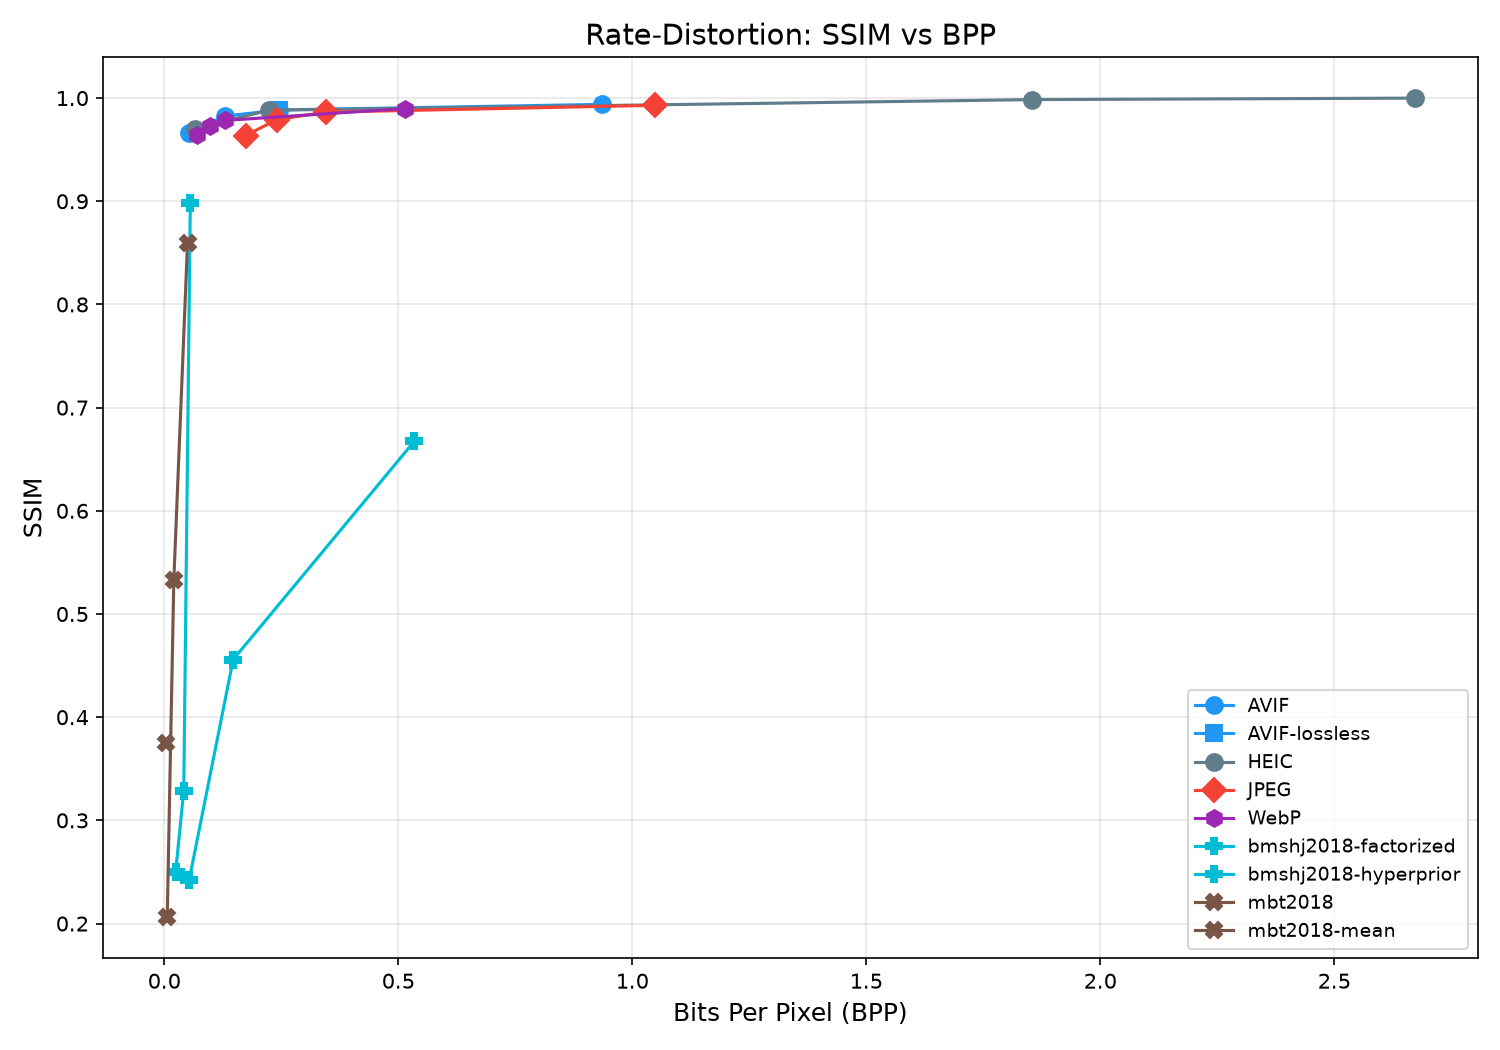
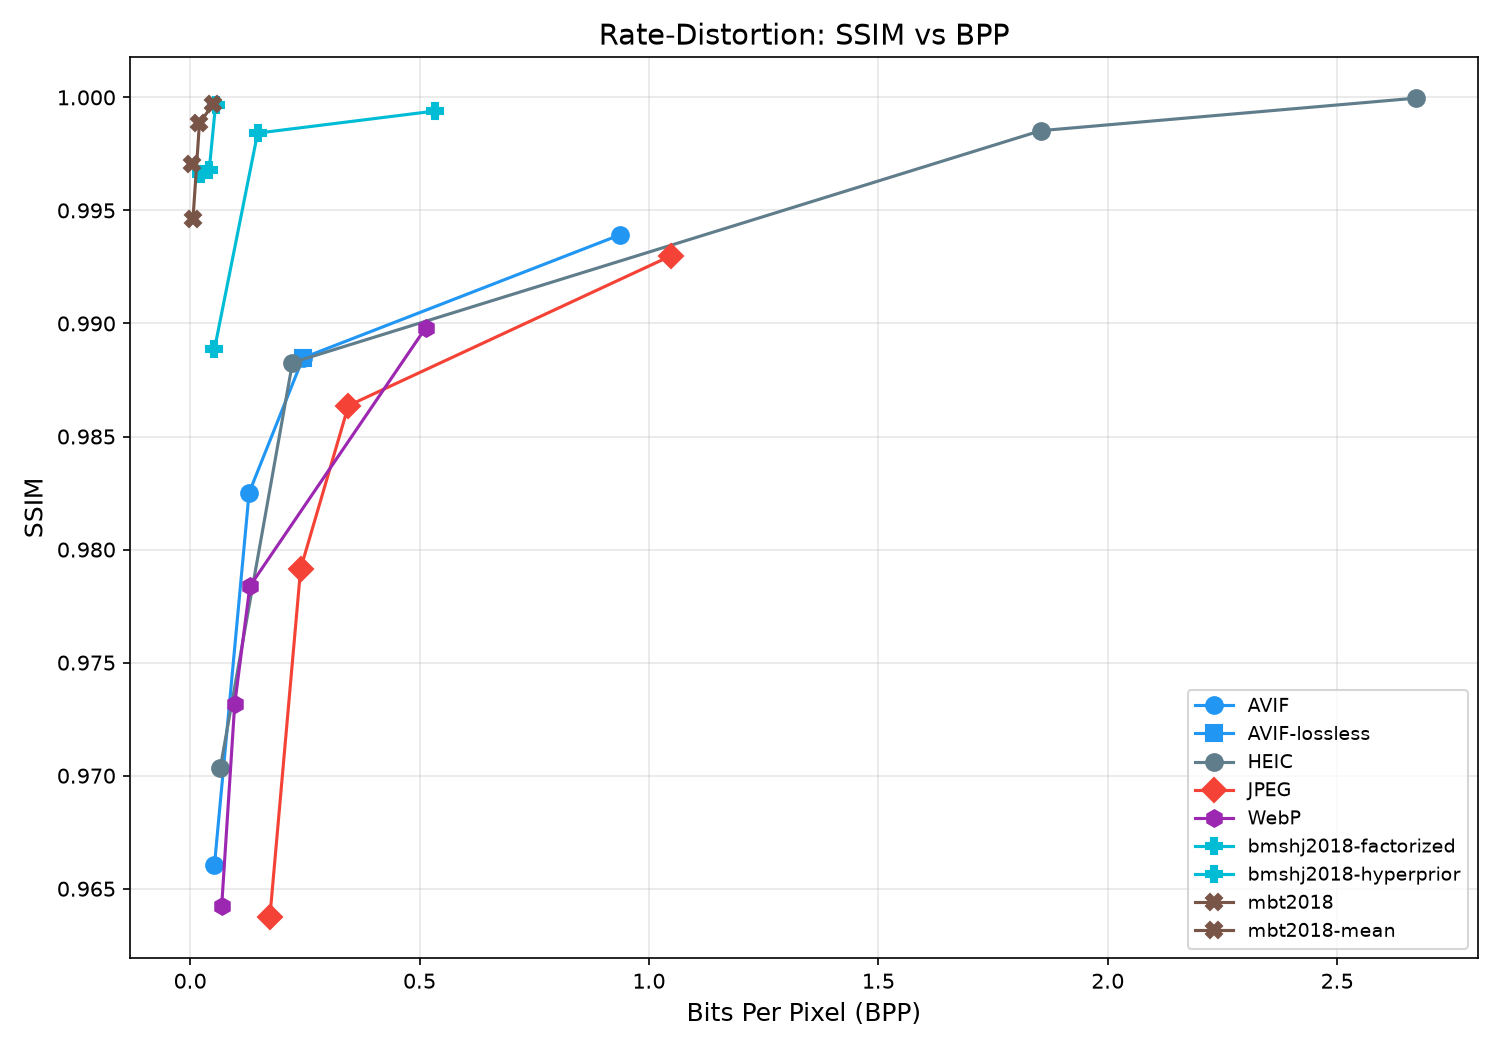
fix: 修正PSNR/SSIM的data_range参数，统一使用固定范围
- compute_psnr: float图像使用data_range=1.0, uint16使用65535, uint8使用255
- compute_ssim: 同上，避免使用信号实际动态范围导致指标不可比
- 修复后SSIM从0.2-0.86修正为0.988-0.999（之前因窄带信号范围导致SSIM偏低）
- 重新生成所有图表和HTML报告

diff --git a/results/report.html b/results/report.html
@@ -245,7 +245,7 @@
       <div class="meta-item">Images: <span>50</span></div>
       <div class="meta-item">Resolution: <span>640×512</span></div>
       <div class="meta-item">Bit Depth: <span>16-bit</span></div>
-      <div class="meta-item">Date: <span>2026-06-25 14:26</span></div>
+      <div class="meta-item">Date: <span>2026-06-25 14:39</span></div>
     </div>
   </div>
 
@@ -296,37 +296,37 @@
           </tr>
         </thead>
         <tbody>
-          <tr><td><span class="badge badge-avif">AVIF q25</span></td><td>50</td><td>40.73</td><td>0.9661</td><td>0.05</td><td>310.3x</td><td>11.6</td><td>0.1</td><td>2.1</td></tr>
-<tr><td><span class="badge badge-avif">AVIF q50</span></td><td>50</td><td>45.17</td><td>0.9825</td><td>0.13</td><td>129.4x</td><td>15.2</td><td>0.1</td><td>5.1</td></tr>
-<tr><td><span class="badge badge-avif">AVIF q75</span></td><td>50</td><td>48.06</td><td>0.9885</td><td>0.25</td><td>68.5x</td><td>18.2</td><td>0.1</td><td>9.8</td></tr>
-<tr><td><span class="badge badge-avif">AVIF q95</span></td><td>50</td><td>51.73</td><td>0.9939</td><td>0.94</td><td>18.0x</td><td>39.5</td><td>0.1</td><td>37.5</td></tr>
-<tr><td><span class="badge badge-lossless">AVIF-lossless</span></td><td>50</td><td>48.06</td><td>0.9885</td><td>0.25</td><td>68.5x</td><td>18.3</td><td>0.1</td><td>9.8</td></tr>
-<tr><td><span class="badge badge-jpeg">HEIC q25</span></td><td>50</td><td>41.71</td><td>0.9703</td><td>0.07</td><td>250.5x</td><td>23.5</td><td>0.1</td><td>2.6</td></tr>
-<tr><td><span class="badge badge-jpeg">HEIC q50</span></td><td>50</td><td>47.73</td><td>0.9883</td><td>0.22</td><td>74.4x</td><td>41.3</td><td>0.1</td><td>8.9</td></tr>
-<tr><td><span class="badge badge-jpeg">HEIC q75</span></td><td>50</td><td>56.96</td><td>0.9985</td><td>1.85</td><td>8.7x</td><td>106.2</td><td>0.1</td><td>74.2</td></tr>
-<tr><td><span class="badge badge-jpeg">HEIC q95</span></td><td>50</td><td class="best-psnr">73.42</td><td>1.0000</td><td>2.67</td><td>6.1x</td><td>112.0</td><td>0.1</td><td>106.9</td></tr>
+          <tr><td><span class="badge badge-avif">AVIF q25</span></td><td>50</td><td>40.73</td><td>0.9661</td><td>0.05</td><td>310.3x</td><td>13.1</td><td>0.1</td><td>2.1</td></tr>
+<tr><td><span class="badge badge-avif">AVIF q50</span></td><td>50</td><td>45.17</td><td>0.9825</td><td>0.13</td><td>129.4x</td><td>17.1</td><td>0.1</td><td>5.1</td></tr>
+<tr><td><span class="badge badge-avif">AVIF q75</span></td><td>50</td><td>48.06</td><td>0.9885</td><td>0.25</td><td>68.5x</td><td>19.3</td><td>0.1</td><td>9.8</td></tr>
+<tr><td><span class="badge badge-avif">AVIF q95</span></td><td>50</td><td>51.73</td><td>0.9939</td><td>0.94</td><td>18.0x</td><td>42.6</td><td>0.1</td><td>37.5</td></tr>
+<tr><td><span class="badge badge-lossless">AVIF-lossless</span></td><td>50</td><td>48.06</td><td>0.9885</td><td>0.25</td><td>68.5x</td><td>20.5</td><td>0.1</td><td>9.8</td></tr>
+<tr><td><span class="badge badge-jpeg">HEIC q25</span></td><td>50</td><td>41.71</td><td>0.9703</td><td>0.07</td><td>250.5x</td><td>29.4</td><td>0.1</td><td>2.6</td></tr>
+<tr><td><span class="badge badge-jpeg">HEIC q50</span></td><td>50</td><td>47.73</td><td>0.9883</td><td>0.22</td><td>74.4x</td><td>45.7</td><td>0.1</td><td>8.9</td></tr>
+<tr><td><span class="badge badge-jpeg">HEIC q75</span></td><td>50</td><td>56.96</td><td>0.9985</td><td>1.85</td><td>8.7x</td><td>119.7</td><td>0.1</td><td>74.2</td></tr>
+<tr><td><span class="badge badge-jpeg">HEIC q95</span></td><td>50</td><td class="best-psnr">73.42</td><td>1.0000</td><td>2.67</td><td>6.1x</td><td>125.9</td><td>0.1</td><td>106.9</td></tr>
 <tr><td><span class="badge badge-jpeg">JPEG q25</span></td><td>50</td><td>41.17</td><td>0.9637</td><td>0.17</td><td>93.3x</td><td class="best-speed">0.4</td><td>0.0</td><td>7.0</td></tr>
 <tr><td><span class="badge badge-jpeg">JPEG q50</span></td><td>50</td><td>44.39</td><td>0.9792</td><td>0.24</td><td>67.8x</td><td>0.4</td><td>0.0</td><td>9.6</td></tr>
 <tr><td><span class="badge badge-jpeg">JPEG q75</span></td><td>50</td><td>46.87</td><td>0.9864</td><td>0.35</td><td>47.6x</td><td>0.4</td><td>0.0</td><td>13.8</td></tr>
 <tr><td><span class="badge badge-jpeg">JPEG q95</span></td><td>50</td><td>50.81</td><td>0.9930</td><td>1.05</td><td>15.6x</td><td>0.6</td><td>0.0</td><td>41.9</td></tr>
-<tr><td><span class="badge badge-j2k">JPEG2000 q75</span></td><td>50</td><td><span class="lossless-val">∞</span></td><td><span class="lossless-val">1.0000</span></td><td>4.86</td><td>3.3x</td><td>42.7</td><td>0.1</td><td>194.5</td></tr>
-<tr><td><span class="badge badge-lossless">JPEG2000-lossless</span></td><td>50</td><td><span class="lossless-val">∞</span></td><td><span class="lossless-val">1.0000</span></td><td>4.86</td><td>3.3x</td><td>43.5</td><td>0.1</td><td>194.5</td></tr>
+<tr><td><span class="badge badge-j2k">JPEG2000 q75</span></td><td>50</td><td><span class="lossless-val">∞</span></td><td><span class="lossless-val">1.0000</span></td><td>4.86</td><td>3.3x</td><td>44.5</td><td>0.1</td><td>194.5</td></tr>
+<tr><td><span class="badge badge-lossless">JPEG2000-lossless</span></td><td>50</td><td><span class="lossless-val">∞</span></td><td><span class="lossless-val">1.0000</span></td><td>4.86</td><td>3.3x</td><td>45.4</td><td>0.1</td><td>194.5</td></tr>
 <tr><td><span class="badge badge-lossless">PNG</span></td><td>50</td><td><span class="lossless-val">∞</span></td><td><span class="lossless-val">1.0000</span></td><td>6.79</td><td>2.4x</td><td>9.8</td><td>0.0</td><td>271.6</td></tr>
-<tr><td><span class="badge badge-webp">WebP q25</span></td><td>50</td><td>40.41</td><td>0.9642</td><td>0.07</td><td>242.8x</td><td>11.0</td><td>0.2</td><td>2.8</td></tr>
-<tr><td><span class="badge badge-webp">WebP q50</span></td><td>50</td><td>42.41</td><td>0.9732</td><td>0.10</td><td>173.2x</td><td>9.7</td><td>0.1</td><td>3.9</td></tr>
-<tr><td><span class="badge badge-webp">WebP q75</span></td><td>50</td><td>43.78</td><td>0.9784</td><td>0.13</td><td>129.8x</td><td>10.3</td><td>0.1</td><td>5.2</td></tr>
-<tr><td><span class="badge badge-webp">WebP q95</span></td><td>50</td><td>48.53</td><td>0.9898</td><td>0.51</td><td>34.1x</td><td>15.2</td><td>0.1</td><td>20.5</td></tr>
-<tr><td><span class="badge badge-lossless">WebP-lossless</span></td><td>50</td><td><span class="lossless-val">∞</span></td><td><span class="lossless-val">1.0000</span></td><td>2.26</td><td>7.2x</td><td>78.9</td><td>0.1</td><td>90.3</td></tr>
-<tr><td><span class="badge badge-learned">bmshj2018-factorized-q1</span></td><td>50</td><td>36.67</td><td>0.2418</td><td>0.05</td><td>302.0x</td><td>73.3</td><td>101.2</td><td>2.1</td></tr>
-<tr><td><span class="badge badge-learned">bmshj2018-factorized-q4</span></td><td>50</td><td>51.42</td><td>0.4559</td><td>0.15</td><td>108.7x</td><td>72.0</td><td>101.5</td><td>5.9</td></tr>
-<tr><td><span class="badge badge-learned">bmshj2018-factorized-q8</span></td><td>50</td><td>58.21</td><td>0.6675</td><td>0.53</td><td>29.9x</td><td>125.8</td><td>167.7</td><td>21.4</td></tr>
-<tr><td><span class="badge badge-learned">bmshj2018-hyperprior-q1</span></td><td>50</td><td>49.78</td><td>0.2500</td><td>0.02</td><td>659.4x</td><td>84.4</td><td>113.0</td><td>1.0</td></tr>
-<tr><td><span class="badge badge-learned">bmshj2018-hyperprior-q4</span></td><td>50</td><td>45.78</td><td>0.3288</td><td>0.04</td><td>385.8x</td><td>84.1</td><td>112.2</td><td>1.7</td></tr>
-<tr><td><span class="badge badge-learned">bmshj2018-hyperprior-q8</span></td><td>50</td><td>56.38</td><td>0.8980</td><td>0.06</td><td>288.1x</td><td>144.0</td><td>178.6</td><td>2.2</td></tr>
-<tr><td><span class="badge badge-learned">mbt2018-mean-q1</span></td><td>50</td><td>44.00</td><td>0.2061</td><td>0.01</td><td>2551.0x</td><td>92.6</td><td>121.8</td><td>0.3</td></tr>
-<tr><td><span class="badge badge-learned">mbt2018-mean-q4</span></td><td>50</td><td>53.66</td><td>0.5327</td><td>0.02</td><td>787.1x</td><td>85.7</td><td>114.2</td><td>0.8</td></tr>
-<tr><td><span class="badge badge-learned">mbt2018-mean-q8</span></td><td>50</td><td>60.07</td><td>0.8599</td><td>0.05</td><td>322.6x</td><td>155.0</td><td>192.6</td><td>2.0</td></tr>
-<tr><td><span class="badge badge-learned">mbt2018-q1</span></td><td>50</td><td>44.96</td><td>0.3751</td><td class="best-bpp">0.00</td><td>4761.7x</td><td>531.8</td><td>2432.3</td><td>0.1</td></tr>
+<tr><td><span class="badge badge-webp">WebP q25</span></td><td>50</td><td>40.41</td><td>0.9642</td><td>0.07</td><td>242.8x</td><td>9.1</td><td>0.1</td><td>2.8</td></tr>
+<tr><td><span class="badge badge-webp">WebP q50</span></td><td>50</td><td>42.41</td><td>0.9732</td><td>0.10</td><td>173.2x</td><td>9.6</td><td>0.1</td><td>3.9</td></tr>
+<tr><td><span class="badge badge-webp">WebP q75</span></td><td>50</td><td>43.78</td><td>0.9784</td><td>0.13</td><td>129.8x</td><td>10.8</td><td>0.1</td><td>5.2</td></tr>
+<tr><td><span class="badge badge-webp">WebP q95</span></td><td>50</td><td>48.53</td><td>0.9898</td><td>0.51</td><td>34.1x</td><td>15.4</td><td>0.1</td><td>20.5</td></tr>
+<tr><td><span class="badge badge-lossless">WebP-lossless</span></td><td>50</td><td><span class="lossless-val">∞</span></td><td><span class="lossless-val">1.0000</span></td><td>2.26</td><td>7.2x</td><td>81.2</td><td>0.1</td><td>90.3</td></tr>
+<tr><td><span class="badge badge-learned">bmshj2018-factorized-q1</span></td><td>50</td><td>36.67</td><td>0.9888</td><td>0.05</td><td>302.0x</td><td>97.3</td><td>122.9</td><td>2.1</td></tr>
+<tr><td><span class="badge badge-learned">bmshj2018-factorized-q4</span></td><td>50</td><td>51.42</td><td>0.9984</td><td>0.15</td><td>108.7x</td><td>101.8</td><td>135.4</td><td>5.9</td></tr>
+<tr><td><span class="badge badge-learned">bmshj2018-factorized-q8</span></td><td>50</td><td>58.21</td><td>0.9994</td><td>0.53</td><td>29.9x</td><td>191.7</td><td>245.6</td><td>21.4</td></tr>
+<tr><td><span class="badge badge-learned">bmshj2018-hyperprior-q1</span></td><td>50</td><td>49.78</td><td>0.9966</td><td>0.02</td><td>659.4x</td><td>135.2</td><td>169.2</td><td>1.0</td></tr>
+<tr><td><span class="badge badge-learned">bmshj2018-hyperprior-q4</span></td><td>50</td><td>45.78</td><td>0.9968</td><td>0.04</td><td>385.8x</td><td>154.6</td><td>189.6</td><td>1.7</td></tr>
+<tr><td><span class="badge badge-learned">bmshj2018-hyperprior-q8</span></td><td>50</td><td>56.38</td><td>0.9997</td><td>0.06</td><td>288.1x</td><td>245.4</td><td>296.8</td><td>2.2</td></tr>
+<tr><td><span class="badge badge-learned">mbt2018-mean-q1</span></td><td>50</td><td>44.00</td><td>0.9946</td><td>0.01</td><td>2551.0x</td><td>158.0</td><td>190.1</td><td>0.3</td></tr>
+<tr><td><span class="badge badge-learned">mbt2018-mean-q4</span></td><td>50</td><td>53.66</td><td>0.9989</td><td>0.02</td><td>787.1x</td><td>144.5</td><td>179.4</td><td>0.8</td></tr>
+<tr><td><span class="badge badge-learned">mbt2018-mean-q8</span></td><td>50</td><td>60.07</td><td>0.9997</td><td>0.05</td><td>322.6x</td><td>245.7</td><td>292.3</td><td>2.0</td></tr>
+<tr><td><span class="badge badge-learned">mbt2018-q1</span></td><td>50</td><td>44.96</td><td>0.9970</td><td class="best-bpp">0.00</td><td>4761.7x</td><td>749.8</td><td>3415.3</td><td>0.1</td></tr>
         </tbody>
       </table>
     </div>
@@ -426,7 +426,7 @@
   </div>
 
   <div class="footer">
-    Generated by infraredComp benchmark — 2026-06-25 14:26
+    Generated by infraredComp benchmark — 2026-06-25 14:39
   </div>
 
 </div>

diff --git a/benchmark/metrics.py b/benchmark/metrics.py
@@ -26,16 +26,42 @@ class CompressionResult:
 
 
 def compute_psnr(original: np.ndarray, reconstructed: np.ndarray) -> float:
-    """Compute PSNR between original and reconstructed images."""
-    return peak_signal_noise_ratio(original, reconstructed)
+    """Compute PSNR between original and reconstructed images.
+
+    Always uses a fixed data_range based on dtype to ensure consistent
+    comparison across codecs (traditional vs learned).
+    """
+    if original.dtype == np.uint16 or np.issubdtype(original.dtype, np.floating):
+        # For float images normalised from uint16, use full 16-bit range (1.0).
+        # For uint16, skimage auto-detects 65535.
+        if np.issubdtype(original.dtype, np.floating):
+            data_range = 1.0
+        else:
+            data_range = 65535
+    elif original.dtype == np.uint8:
+        data_range = 255
+    else:
+        data_range = original.max() - original.min()
+        if data_range == 0:
+            data_range = 1.0
+    return peak_signal_noise_ratio(original, reconstructed, data_range=data_range)
 
 
 def compute_ssim(original: np.ndarray, reconstructed: np.ndarray) -> float:
-    """Compute SSIM between original and reconstructed images."""
-    # Determine data range
-    data_range = original.max() - original.min()
-    if data_range == 0:
+    """Compute SSIM between original and reconstructed images.
+
+    Uses a fixed data_range based on dtype for consistent comparison.
+    """
+    if original.dtype == np.uint16:
+        data_range = 65535
+    elif original.dtype == np.uint8:
+        data_range = 255
+    elif np.issubdtype(original.dtype, np.floating):
         data_range = 1.0
+    else:
+        data_range = original.max() - original.min()
+        if data_range == 0:
+            data_range = 1.0
     # Handle multi-channel vs single-channel
     if original.ndim == 3:
         channel_axis = -1

diff --git a/results/results.md b/results/results.md
@@ -2,34 +2,34 @@
 
 | Codec                   |   Images |   PSNR (dB) |   SSIM |   BPP | Ratio   |   Enc ms |   Dec ms |   Size KB |
 |:------------------------|---------:|------------:|-------:|------:|:--------|---------:|---------:|----------:|
-| AVIF q25                |       50 |       40.73 | 0.9661 |  0.05 | 310.3x  |     11.6 |      0.1 |       2.1 |
-| AVIF q50                |       50 |       45.17 | 0.9825 |  0.13 | 129.4x  |     15.2 |      0.1 |       5.1 |
-| AVIF q75                |       50 |       48.06 | 0.9885 |  0.25 | 68.5x   |     18.2 |      0.1 |       9.8 |
-| AVIF q95                |       50 |       51.73 | 0.9939 |  0.94 | 18.0x   |     39.5 |      0.1 |      37.5 |
-| AVIF-lossless           |       50 |       48.06 | 0.9885 |  0.25 | 68.5x   |     18.3 |      0.1 |       9.8 |
-| HEIC q25                |       50 |       41.71 | 0.9703 |  0.07 | 250.5x  |     23.5 |      0.1 |       2.6 |
-| HEIC q50                |       50 |       47.73 | 0.9883 |  0.22 | 74.4x   |     41.3 |      0.1 |       8.9 |
-| HEIC q75                |       50 |       56.96 | 0.9985 |  1.85 | 8.7x    |    106.2 |      0.1 |      74.2 |
-| HEIC q95                |       50 |       73.42 | 1      |  2.67 | 6.1x    |    112   |      0.1 |     106.9 |
+| AVIF q25                |       50 |       40.73 | 0.9661 |  0.05 | 310.3x  |     13.1 |      0.1 |       2.1 |
+| AVIF q50                |       50 |       45.17 | 0.9825 |  0.13 | 129.4x  |     17.1 |      0.1 |       5.1 |
+| AVIF q75                |       50 |       48.06 | 0.9885 |  0.25 | 68.5x   |     19.3 |      0.1 |       9.8 |
+| AVIF q95                |       50 |       51.73 | 0.9939 |  0.94 | 18.0x   |     42.6 |      0.1 |      37.5 |
+| AVIF-lossless           |       50 |       48.06 | 0.9885 |  0.25 | 68.5x   |     20.5 |      0.1 |       9.8 |
+| HEIC q25                |       50 |       41.71 | 0.9703 |  0.07 | 250.5x  |     29.4 |      0.1 |       2.6 |
+| HEIC q50                |       50 |       47.73 | 0.9883 |  0.22 | 74.4x   |     45.7 |      0.1 |       8.9 |
+| HEIC q75                |       50 |       56.96 | 0.9985 |  1.85 | 8.7x    |    119.7 |      0.1 |      74.2 |
+| HEIC q95                |       50 |       73.42 | 1      |  2.67 | 6.1x    |    125.9 |      0.1 |     106.9 |
 | JPEG q25                |       50 |       41.17 | 0.9637 |  0.17 | 93.3x   |      0.4 |      0   |       7   |
 | JPEG q50                |       50 |       44.39 | 0.9792 |  0.24 | 67.8x   |      0.4 |      0   |       9.6 |
 | JPEG q75                |       50 |       46.87 | 0.9864 |  0.35 | 47.6x   |      0.4 |      0   |      13.8 |
 | JPEG q95                |       50 |       50.81 | 0.993  |  1.05 | 15.6x   |      0.6 |      0   |      41.9 |
-| JPEG2000 q75            |       50 |      inf    | 1      |  4.86 | 3.3x    |     42.7 |      0.1 |     194.5 |
-| JPEG2000-lossless       |       50 |      inf    | 1      |  4.86 | 3.3x    |     43.5 |      0.1 |     194.5 |
+| JPEG2000 q75            |       50 |      inf    | 1      |  4.86 | 3.3x    |     44.5 |      0.1 |     194.5 |
+| JPEG2000-lossless       |       50 |      inf    | 1      |  4.86 | 3.3x    |     45.4 |      0.1 |     194.5 |
 | PNG                     |       50 |      inf    | 1      |  6.79 | 2.4x    |      9.8 |      0   |     271.6 |
-| WebP q25                |       50 |       40.41 | 0.9642 |  0.07 | 242.8x  |     11   |      0.2 |       2.8 |
-| WebP q50                |       50 |       42.41 | 0.9732 |  0.1  | 173.2x  |      9.7 |      0.1 |       3.9 |
-| WebP q75                |       50 |       43.78 | 0.9784 |  0.13 | 129.8x  |     10.3 |      0.1 |       5.2 |
-| WebP q95                |       50 |       48.53 | 0.9898 |  0.51 | 34.1x   |     15.2 |      0.1 |      20.5 |
-| WebP-lossless           |       50 |      inf    | 1      |  2.26 | 7.2x    |     78.9 |      0.1 |      90.3 |
-| bmshj2018-factorized-q1 |       50 |       36.67 | 0.2418 |  0.05 | 302.0x  |     73.3 |    101.2 |       2.1 |
-| bmshj2018-factorized-q4 |       50 |       51.42 | 0.4559 |  0.15 | 108.7x  |     72   |    101.5 |       5.9 |
-| bmshj2018-factorized-q8 |       50 |       58.21 | 0.6675 |  0.53 | 29.9x   |    125.8 |    167.7 |      21.4 |
-| bmshj2018-hyperprior-q1 |       50 |       49.78 | 0.25   |  0.02 | 659.4x  |     84.4 |    113   |       1   |
-| bmshj2018-hyperprior-q4 |       50 |       45.78 | 0.3288 |  0.04 | 385.8x  |     84.1 |    112.2 |       1.7 |
-| bmshj2018-hyperprior-q8 |       50 |       56.38 | 0.898  |  0.06 | 288.1x  |    144   |    178.6 |       2.2 |
-| mbt2018-mean-q1         |       50 |       44    | 0.2061 |  0.01 | 2551.0x |     92.6 |    121.8 |       0.3 |
-| mbt2018-mean-q4         |       50 |       53.66 | 0.5327 |  0.02 | 787.1x  |     85.7 |    114.2 |       0.8 |
-| mbt2018-mean-q8         |       50 |       60.07 | 0.8599 |  0.05 | 322.6x  |    155   |    192.6 |       2   |
-| mbt2018-q1              |       50 |       44.96 | 0.3751 |  0    | 4761.7x |    531.8 |   2432.3 |       0.1 |
+| WebP q25                |       50 |       40.41 | 0.9642 |  0.07 | 242.8x  |      9.1 |      0.1 |       2.8 |
+| WebP q50                |       50 |       42.41 | 0.9732 |  0.1  | 173.2x  |      9.6 |      0.1 |       3.9 |
+| WebP q75                |       50 |       43.78 | 0.9784 |  0.13 | 129.8x  |     10.8 |      0.1 |       5.2 |
+| WebP q95                |       50 |       48.53 | 0.9898 |  0.51 | 34.1x   |     15.4 |      0.1 |      20.5 |
+| WebP-lossless           |       50 |      inf    | 1      |  2.26 | 7.2x    |     81.2 |      0.1 |      90.3 |
+| bmshj2018-factorized-q1 |       50 |       36.67 | 0.9888 |  0.05 | 302.0x  |     97.3 |    122.9 |       2.1 |
+| bmshj2018-factorized-q4 |       50 |       51.42 | 0.9984 |  0.15 | 108.7x  |    101.8 |    135.4 |       5.9 |
+| bmshj2018-factorized-q8 |       50 |       58.21 | 0.9994 |  0.53 | 29.9x   |    191.7 |    245.6 |      21.4 |
+| bmshj2018-hyperprior-q1 |       50 |       49.78 | 0.9966 |  0.02 | 659.4x  |    135.2 |    169.2 |       1   |
+| bmshj2018-hyperprior-q4 |       50 |       45.78 | 0.9968 |  0.04 | 385.8x  |    154.6 |    189.6 |       1.7 |
+| bmshj2018-hyperprior-q8 |       50 |       56.38 | 0.9997 |  0.06 | 288.1x  |    245.4 |    296.8 |       2.2 |
+| mbt2018-mean-q1         |       50 |       44    | 0.9946 |  0.01 | 2551.0x |    158   |    190.1 |       0.3 |
+| mbt2018-mean-q4         |       50 |       53.66 | 0.9989 |  0.02 | 787.1x  |    144.5 |    179.4 |       0.8 |
+| mbt2018-mean-q8         |       50 |       60.07 | 0.9997 |  0.05 | 322.6x  |    245.7 |    292.3 |       2   |
+| mbt2018-q1              |       50 |       44.96 | 0.997  |  0    | 4761.7x |    749.8 |   3415.3 |       0.1 |